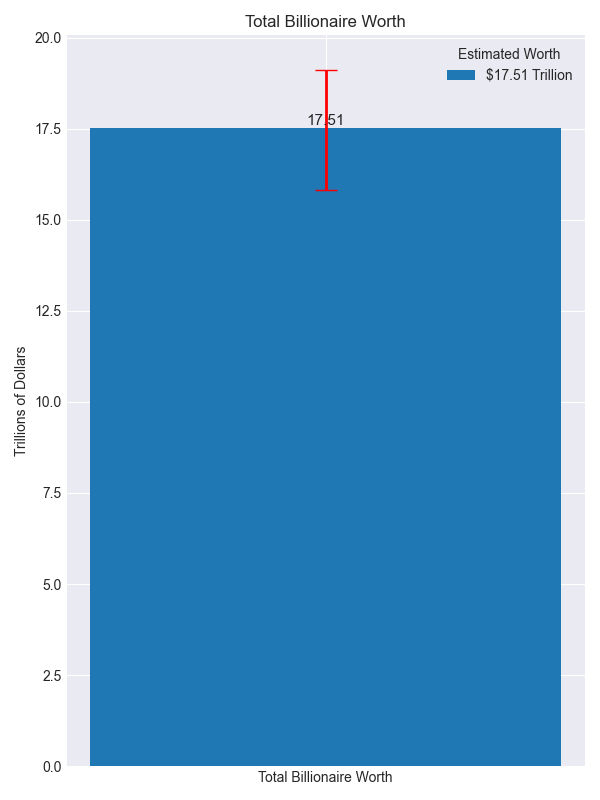
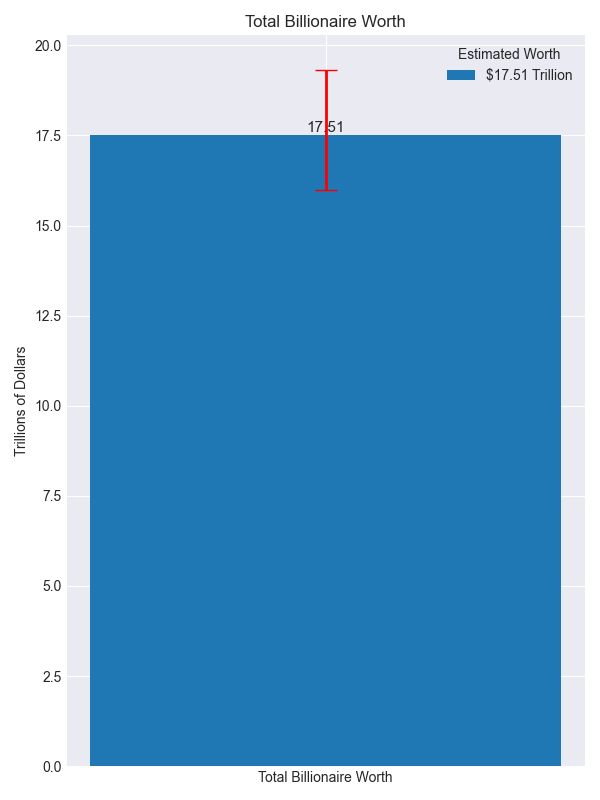
Mongodb connection edits

diff --git a/pipeline/data_analysis.md b/pipeline/data_analysis.md
@@ -9,14 +9,12 @@ import matplotlib.pyplot as plt
 import os
 import pymongo
 import logging
-import warnings
 from dotenv import load_dotenv
 
 from sklearn.preprocessing import StandardScaler
 from sklearn.model_selection import train_test_split, GridSearchCV
 from sklearn.linear_model import ElasticNet
 from sklearn.metrics import r2_score, mean_squared_error
-from sklearn.exceptions import ConvergenceWarning
 ```
 
 
